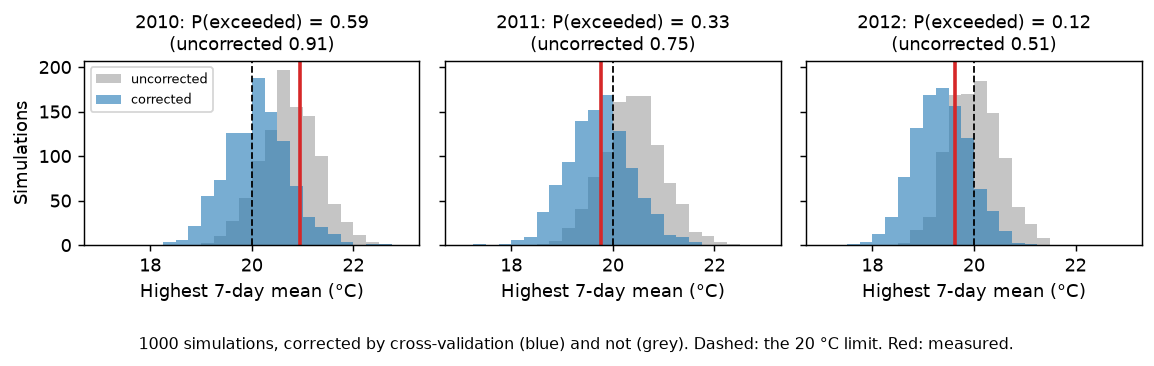
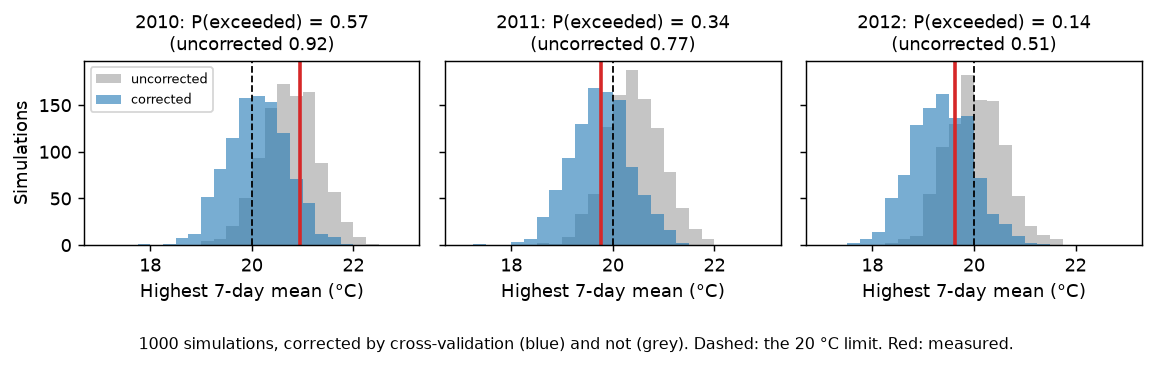
Example 03 rerun with the DE fix: corrected P 0.57/0.34/0.14 (was 0.59/0.33/0.12)
The calibration's optimum moved by at most 0.007 in any parameter, so the MCMC
chain and the 1,000 simulations differ slightly. Conclusions are unchanged.
README, figures and the numbers quoted in docs/UNCERTAINTY.md are updated.

Claude-Session: https://claude.ai/code/session_01JyYTyNnMKAUkaRFLKK2LWV

diff --git a/docs/UNCERTAINTY.md b/docs/UNCERTAINTY.md
@@ -815,12 +815,12 @@ and the Dischmabach's too low.*
    Student t variable, the standard allowance for a mean estimated from few
    values). With few years the corrected range is therefore wider.
 
-![Left: deviations of seven held-out years, mean -0.65 °C with its 95% interval. Right: the 2011 highest 7-day mean before and after correction; the probability of exceeding 20 °C falls from 0.75 to 0.33; the measured value was 19.8 °C.](figures/U11_correction.png)
+![Left: deviations of seven held-out years, mean -0.65 °C with its 95% interval. Right: the 2011 highest 7-day mean before and after correction; the probability of exceeding 20 °C falls from 0.77 to 0.34; the measured value was 19.8 °C.](figures/U11_correction.png)
 
 *Figure 15. Example 03. Left: in the seven held-out years of 2003–2009 the
 measured highest 7-day mean was on average 0.65 °C below the prediction (95%
 interval 0.20–1.10 °C). Right: corrected, the probability that 2011 exceeded a
-20 °C limit falls from 0.75 to 0.33; the measured value was 19.8 °C, below the
+20 °C limit falls from 0.77 to 0.34; the measured value was 19.8 °C, below the
 limit.*
 
 ### When to use it
@@ -1200,11 +1200,11 @@ same of model results (Jakeman et al., 2006; Refsgaard et al., 2007; US EPA,
 ### How to word a result
 
 > The model, calibrated on 2002–2009 and checked by leave-one-year-out
-> cross-validation (7 held-out years), gives a probability of 0.33 that the
+> cross-validation (7 held-out years), gives a probability of 0.34 that the
 > highest 7-day mean water temperature in 2011 exceeded 20 °C (90% range for
-> that statistic 18.7–20.8 °C), after correcting for the model's average error
+> that statistic 18.8–20.8 °C), after correcting for the model's average error
 > in that statistic in the held-out years (−0.65 °C, 95% interval −1.10 to
-> −0.20 °C). Uncorrected, the probability would be 0.75. pyair2stream 0.5.0,
+> −0.20 °C). Uncorrected, the probability would be 0.77. pyair2stream 0.5.0,
 > commit `<sha>`, random seed 42.
 
 ### Checklist before you report
@@ -1235,14 +1235,14 @@ pyair2stream --config examples/03_compliance/check.yaml       # cross-validation
 
 | Year | P(7-day mean > 20 °C), corrected | uncorrected | Measured highest 7-day mean |
 |---|---|---|---|
-| 2010 | 0.59 | 0.91 | 21.0 °C (exceeded) |
-| 2011 | 0.33 | 0.75 | 19.8 °C (not exceeded) |
-| 2012 | 0.12 | 0.51 | 19.6 °C (not exceeded) |
+| 2010 | 0.57 | 0.92 | 21.0 °C (exceeded) |
+| 2011 | 0.34 | 0.77 | 19.8 °C (not exceeded) |
+| 2012 | 0.14 | 0.51 | 19.6 °C (not exceeded) |
 
 The check found that the model put the yearly peak 0.65 °C too high in the
 held-out years. Corrected, the probabilities matched what happened better (Brier
 score, the mean squared difference between probability and outcome; Brier,
-1950: 0.10 against 0.28), and all three measured values lay inside the corrected 90%
+1950: 0.11 against 0.29), and all three measured values lay inside the corrected 90%
 ranges.
 
 ---

diff --git a/examples/03_compliance/README.md b/examples/03_compliance/README.md
@@ -60,7 +60,7 @@ peak = stats[2010]["highest 7-day mean"]                        # one value per 
 check = pd.read_csv(f"{out}/check/cv_yearly_statistics.csv")
 dev = check[check.statistic == "highest 7-day mean"].deviation  # measured minus predicted median, per hidden year
 peak_c = scenario.correct_statistic(peak, dev, seed=2010)       # corrected for the model's bias
-p_exceeded = (peak_c > 20).mean()                               # share of simulations above the limit: 0.59
+p_exceeded = (peak_c > 20).mean()                               # share of simulations above the limit: 0.57
 ```
 
 The correction includes a random draw. `seed` makes it repeatable.
@@ -82,20 +82,20 @@ year) puts the summer peaks too high.
 
 | Year | P(7-day mean > 20 °C), corrected | uncorrected | Highest 7-day mean, 90% range, corrected | Measured | Days above 18 °C, corrected: median (90% range) | Measured |
 |---|---|---|---|---|---|---|
-| 2010 | 0.59 | 0.91 | 19.1 to 21.1 °C | 21.0 °C | 31 (23 to 39) | 30 |
-| 2011 | 0.33 | 0.75 | 18.7 to 20.8 °C | 19.8 °C | 19 (12 to 27) | 21 |
-| 2012 | 0.12 | 0.51 | 18.5 to 20.3 °C | 19.6 °C | 25 (16 to 34) | 22 |
+| 2010 | 0.57 | 0.92 | 19.2 to 21.1 °C | 21.0 °C | 31 (22 to 39) | 30 |
+| 2011 | 0.34 | 0.77 | 18.8 to 20.8 °C | 19.8 °C | 19 (11 to 28) | 21 |
+| 2012 | 0.14 | 0.51 | 18.4 to 20.4 °C | 19.6 °C | 25 (16 to 34) | 22 |
 
 ![Highest 7-day mean in each simulation, corrected and not](figures/peak_7day_mean.png)
 
 **Reading it.**
 
 - The limit was in fact exceeded in 2010, and not in 2011 or 2012.
-- The corrected probabilities (0.59, 0.33, 0.12) match this better than the
-  uncorrected ones (0.91, 0.75, 0.51). The uncorrected ones would have called
+- The corrected probabilities (0.57, 0.34, 0.14) match this better than the
+  uncorrected ones (0.92, 0.77, 0.51). The uncorrected ones would have called
   2011 a likely exceedance.
 - The Brier score (the mean squared difference between probability and
-  outcome; lower is better) is 0.10 corrected, against 0.28 uncorrected.
+  outcome; lower is better) is 0.11 corrected, against 0.29 uncorrected.
 - All measured values lie inside the corrected 90% ranges.
 - 2010's measured peak, 21.0 °C, is near the top of its range: the bias in
   2010–2012 was smaller than in 2003–2009.
